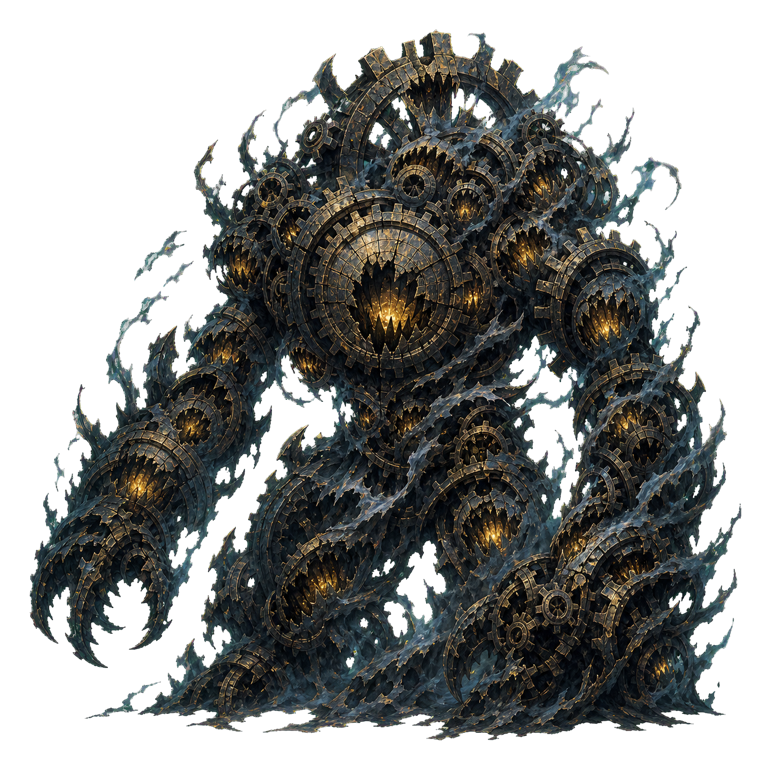
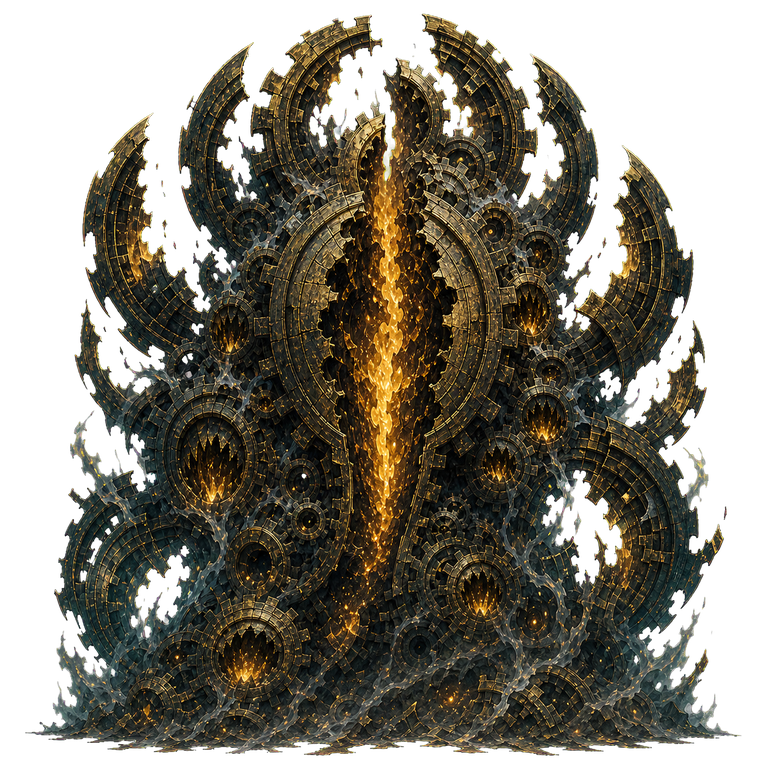
fix: 人間レビュー反映でボス第2形態とカーソルを再生成(codex再委譲)
Claude-Session: https://claude.ai/code/session_01AjQfkveF3CJj99ffhC51nN

diff --git a/assets/prompts/dream-eater-phase2.md b/assets/prompts/dream-eater-phase2.md
@@ -49,3 +49,39 @@ Constraints: follow the lore appearance exactly; do not add a humanoid face, eye
 - Image Gen出力をフラットな緑クロマキー背景で生成。
 - `remove_chroma_key.py` で背景を透過し、`assets/enemies/dream-eater-phase2.png` に保存。
 - 最終PNGは768x768 RGBA。
+
+## 2026-07-03 レビュー対応再生成
+
+人間レビューで「第1形態と大差がなく、ラスボス感が足りない」と指摘されたため上書き再生成。
+前回版は、第1形態との連続性は保てていたが、低い塊状のシルエットと均等に散った小裂け目が強く、遠目では「靄の薄い第1形態」に見えやすかった。今回はロアの範囲内で、次の3点を優先した。
+
+- 第1形態のうずくまった塊から、壊れた歯車弧が展開してそびえるシルエットへ変える。
+- 中央の割れた巨大歯車を縦に大きく裂き、飢えた炉のような支配的な大裂け目を作る。
+- 靄を残滓まで減らし、琥珀の機関光を第1形態より明確に強める。
+
+### 採用プロンプト全文
+
+```text
+Use case: stylized-concept
+Asset type: boss battle transparent cutout for The Dreaming Engine, target square around 768x768 PNG after background removal
+Reference images: use the visible project Dream Eater phase 1 and previous phase 2 only as style and identity context. Keep the same boss identity: central cracked giant gear, tarnished brass and charcoal metal, exposed interlocked gears, painterly dark fantasy, muted low-saturation blue-grey and amber palette.
+Primary request: regenerate "Dream Eater" (夢喰い / yume-kui), phase 2. It must read immediately as a stronger final-boss escalation from phase 1 while obeying lore: mist peeled away, bare gears exposed, many mouth-like rifts of hunger, suffering rather than hatred.
+Critical silhouette requirement: create a tall, looming, unstable opened posture made ONLY from broken gear rings and gear clusters. The outer silhouette should look like shattered circular gear arcs opening around the core, like a damaged mechanical iris or flowered gear aperture. No limb-like appendages, no claws, no pincers, no scythes, no blade arms, no horns, no wings. Every sharp outer shape must visibly be part of a broken circular gear ring with teeth or metal plates.
+Dominant core: a huge central cracked gear dominates the body. It is split vertically into one large mouth-like furnace rift, the clear focal point. The rift is a black dry mechanical void edged by jagged broken gear teeth and cracked metal plates, with intense muted amber engine-light pouring out from deep inside. It should not look like a humanoid face or animal mouth; no eyes, lips, tongue, gums, wet flesh, or blood.
+Secondary details: a few smaller mouth-like slits and exposed cavities between surrounding gears, all subordinate to the central vertical rift. Avoid a repeated pattern of many equal round mouths. Show exposed corroded gears, torn metal rings, dry soot-dark cavities, and small gear fragments.
+Mist and escalation: compared with phase 1, the blue-grey mist is almost gone. Only thin torn wisps remain around lower edges and in narrow gaps. Bare tarnished brass and charcoal gearwork dominate. Amber glow is clearly much stronger than phase 1: furnace-like amber light, tiny sparks, and subtle heat shimmer near the central rift, but no red flame and no flashy magic.
+Mood: tragic, exhausted, reflexive rampage caused by pain and starvation; not gleefully evil. Painterly illustration, dark fantasy, melancholic dreamlike atmosphere, controlled contrast.
+Color palette: charcoal black metal, tarnished brass, ash grey, sparse blue-grey mist remnants, muted amber furnace glow. Avoid green in the subject.
+Composition/framing: centered three-quarter view, full boss silhouette visible with generous padding, upright looming posture, no ground plane, no cast shadow, game battle cutout.
+Background for removal: perfectly flat solid #00ff00 chroma-key background. The background must be one uniform color with no shadows, gradients, texture, floor, reflection, lighting variation, or contact shadow. Keep the subject fully separated from the background with crisp enough edges and generous padding. Do not use #00ff00 anywhere in the subject.
+Text: none.
+Hard constraints: no humanoid face, no eyes, no horns, no wings, no weapons, no armor, no claws, no limbs, no blade shapes, no blood, no gore, no exposed organs, no wet organic tissue, no title text, no watermark, no frame, no UI. Same Dream Eater, phase 2 escalation only.
+```
+
+### 試行メモ
+
+- 試行1: 中央の縦裂け目と発光は強く出たが、左下の外周破片が爪・肢状に読めたため不採用。ロア外の新要素に見える危険があった。
+- 試行2: 「破断した歯車弧・リングのみ」「肢状シルエット禁止」を強めて再生成し採用。中央大裂け目、展開した歯車弧、ほぼ剥がれた靄、強い琥珀光が出た。
+- Image Gen出力をフラットな緑クロマキー背景で生成。
+- `remove_chroma_key.py` で背景を透過後、768x768へリサイズし、`assets/enemies/dream-eater-phase2.png` に上書き保存。
+- 最終PNGは768x768 RGBA。透明コーナー、キー色残留なしを確認。

diff --git a/assets/prompts/cursor.md b/assets/prompts/cursor.md
@@ -36,3 +36,30 @@ Constraints: no text, no letters, no numbers, no watermark, no logos; background
 - `remove_chroma_key.py` で背景を透過し、`assets/ui/cursor.png` に保存。
 - Pillowで128x128に正規化。
 - 選択カーソルとして、右向きの青灰金属ポインタ、歯車、琥珀の灯りを小さくまとめた。
+
+## レビュー対応再生成 2026-07-03
+
+### 生成プロンプト全文
+
+```text
+Use case: stylized-concept
+Asset type: game UI selection cursor icon, final intended size about 128x128, transparent after chroma-key removal
+Primary request: regenerate a small selection cursor for a dark fantasy RPG menu. It should read like a normal mouse pointer arrow: the sharp tip points to the upper-left, and the body extends down-right. The main axis is only slightly tilted from vertical, about 20 degrees, not horizontal and not straight up.
+Scene/backdrop: perfectly flat solid #00ff00 chroma-key background for local background removal
+Subject: a compact blue-grey iron mouse-pointer arrow cursor with a subtle aged-brass gear crescent near the lower-right body and a tiny amber lantern/ember glow set into the gear; simple, clear silhouette at small size
+Style/medium: painterly game UI icon, clean production asset, restrained dark fantasy UI ornament, not a mockup
+Composition/framing: centered icon with generous padding. Geometry target: arrow tip near the upper-left quadrant, body/tail toward the lower-right quadrant, diagonal down-right from the tip at roughly 15 to 30 degrees away from vertical. Do not make it point right. Do not make it horizontal. Do not make it point straight up.
+Lighting/mood: dim candlelit amber glow against cool blue-grey metal, melancholic dreamlike dark fantasy
+Color palette: muted blue-grey iron, dark slate, aged brass, small warm amber light; do not use green in the subject
+Materials/textures: aged brass gear teeth, dark iron bevel, tiny lantern/ember glow, crisp opaque edges
+Text (verbatim): none
+Constraints: no text, no letters, no numbers, no watermark, no logos; background must be one perfectly uniform #00ff00 with no gradients, no shadows, no floor plane, no reflections, no texture; no cast shadow; subject fully separated from background with crisp silhouette and generous padding for alpha extraction; simple and restrained
+Avoid: right-pointing cursor, fully horizontal cursor, straight-up vertical cursor, large ornate decoration, readable symbols, green subject colors
+```
+
+### 試行メモ
+
+- 前回版はプロンプト内に `pointing right` / `right` の指定があり、完成画像も完全な真横右向きになっていた。
+- 今回は通常のマウスポインタに近い構図として、先端を左上、本体を右下へ伸ばし、垂直から約20度だけ傾ける指定に変更した。
+- Image Gen出力を緑クロマキー背景で生成し、`remove_chroma_key.py` で透過化。
+- 透明外接範囲を基準にトリミングして128x128 RGBAへ正規化し、`assets/ui/cursor.png` を上書きした。

diff --git a/docs/progress/JOURNAL.md b/docs/progress/JOURNAL.md
@@ -85,3 +85,16 @@
   - 画像の見た目の最終確認(トーン・品質)は人間の目視待ち(「人間確認待ち」)
 - 次にやること: ROADMAP M1(マップと移動)へ進む。M5到達時は納品済みアセットの
   組み込み(会話立ち絵表示・戦闘背景+敵グラフィック・タイトル画面)から始める
+
+## [4] 2026-07-03 人間レビューを受けたアセット2点の再生成(codex再委譲)
+
+- やったこと:
+  - `dream-eater-phase2.png` を再生成: 「第1形態と大差がなくラスボス感が足りない」との
+    人間フィードバックを受け、ロアの範囲内でエスカレーションを強化
+    (そびえ立つシルエット・中央の縦の大裂け目・琥珀の炉光の明確な増加・靄の剥落)
+  - `cursor.png` を再生成: 「完全な真横向き」を、通常のマウスポインタ風の
+    先端左上・約20度傾きに修正
+  - 両点の `assets/prompts/*.md` に試行メモを追記、manifestの該当エントリを更新
+- 検証: `pnpm check` 緑。画像は目視で第1形態との差別化・カーソルの向きを確認
+- 既知の問題: なし
+- 次にやること: ROADMAP M1(マップと移動)へ進む(前エントリと同じ)
